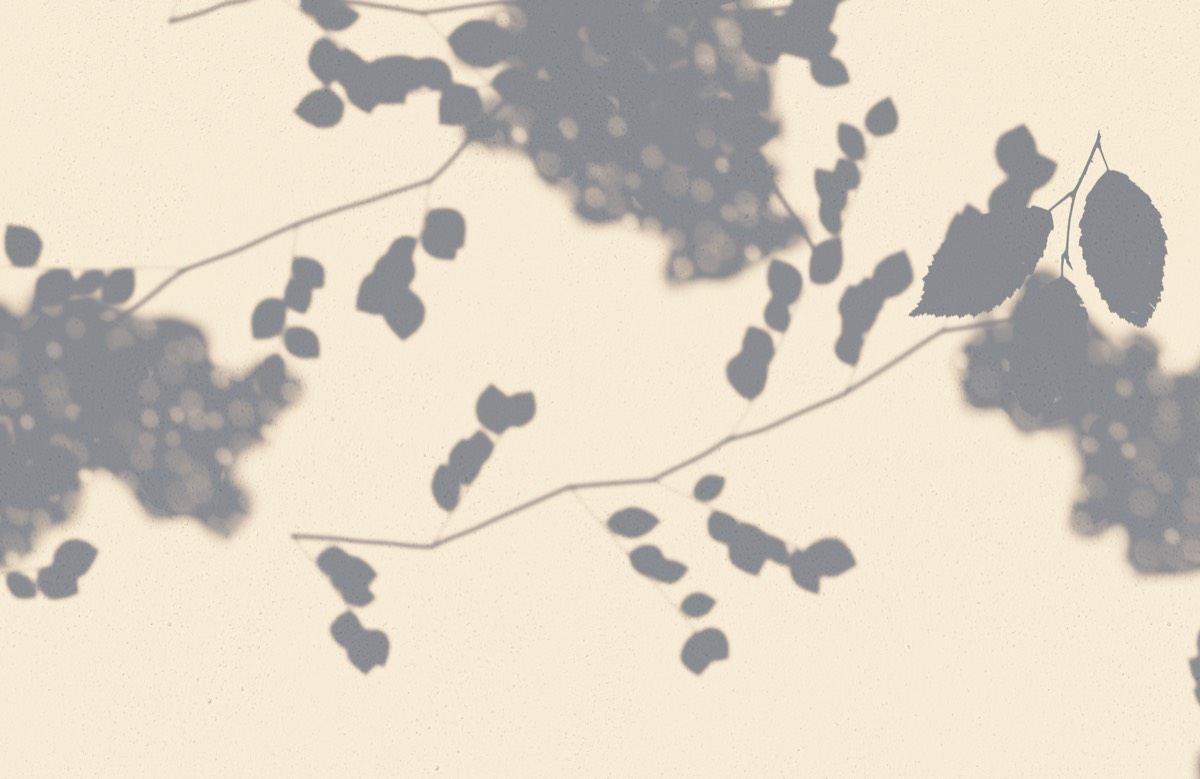
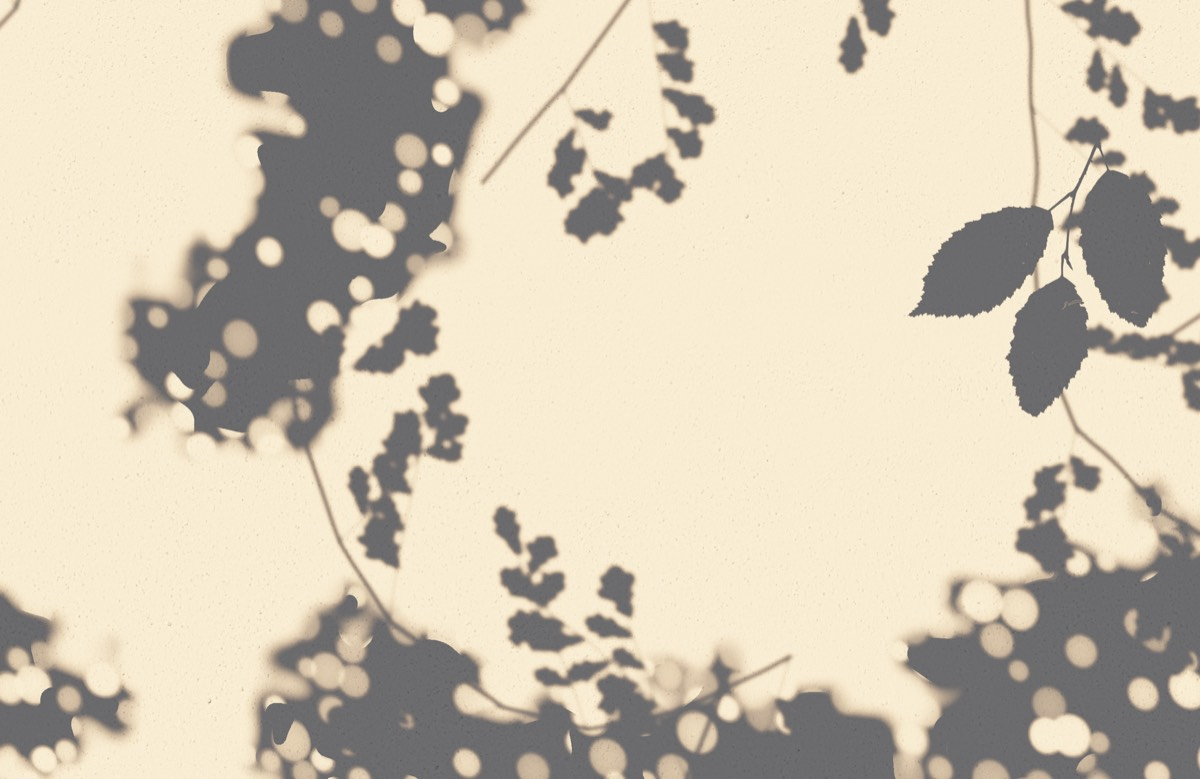
Dappled Light: calibrate shade, bounce light and dapples against measured reference photos

diff --git a/Sources/Atrium/DappledLight.swift b/Sources/Atrium/DappledLight.swift
@@ -32,7 +32,7 @@ final class DappledLight: SKScene {
     /// Metres of wall across the screen, and how far each layer of leaves is from the wall: the far crown, whose
     /// shadow is a soft mass with round dapples in it, sprays of leaves soft at the edges, and a twig close enough to
     /// cast a sharp shadow.
-    private static let wallWidth = 2.4, far = 4.0, mid = 1.2, near = 0.25
+    private static let wallWidth = 2.4, far = 5.0, mid = 1.2, near = 0.25
 
     private let wall = SKSpriteNode()
     private let proj = SKUniform(name: "u_proj", vectorFloat4: .zero), invL = SKUniform(name: "u_invL", float: 0)
@@ -131,9 +131,10 @@ final class DappledLight: SKScene {
         let air = Atmosphere.shared
         let altitude = asin(sun.z) * 180 / .pi
 
-        // Skylight on the wall: blue by day, fading through twilight to the glow of towns.
-        let skyDay = V(0.80, 0.88, 1.0) * 0.18 * sqrt(max(sun.z, 0) + 0.02)
-        let skyDusk = V(0.72, 0.79, 1.0) * 0.025 * exp(min(altitude, 0) / 3.2)
+        // Skylight on the wall: blue by day, fading through twilight to the glow of towns. Photos of leaf shadows on
+        // walls put sunlit wall at 7–8 times the shade by day, 4 at golden hour.
+        let skyDay = V(0.80, 0.88, 1.0) * 0.075 * sqrt(max(sun.z, 0) + 0.02)
+        let skyDusk = V(0.72, 0.79, 1.0) * 0.0106 * exp(min(altitude, 0) / 3.2)
         var sky = (altitude > 0 ? skyDay : skyDusk) + V(0.9, 0.85, 0.8) * 3e-7
         var overcastSky = V(0.93, 0.95, 1.0) * (0.3 * pow(max(sun.z + 0.05, 0), 0.8) + 0.004 * exp(min(altitude, 0) / 3.2)) + V(1, 0.8, 0.6) * 5e-7
 
@@ -184,6 +185,8 @@ final class DappledLight: SKScene {
         let lights = seen.z > 0.02 && toward.z > -0.01 // the source is in front of the wall and above the horizon
         let cosine = max(seen.z, 0)
         let fade = smoothstep(0.02, 0.12, cosine) // grazing light fades rather than stopping at an edge
+        // Sunlight bounced off the ground and everything around warms the shade, most at golden hour when the sky is dim.
+        if !isNight { sky += strength * 0.05 * pow(1 - max(sun.z, 0), 3) }
         lit = (lights ? strength * fade : .zero, sky, overcastSky, 1)
 
         // The sky offset (in source radii) that each metre of wall sees through a gap, per metre of path from it.
@@ -284,7 +287,7 @@ final class DappledLight: SKScene {
 
     /// The tree's shadow-casters, 3 m square and tiling, laid out afresh each launch from real maple, oak or beech
     /// leaves (ambientCG's leaf scans, CC0), one kind of tree at a time. Red holds sprays of leaves on their twigs,
-    /// green the far crown: denser clumps of smaller leaves, blurred into the soft masses that the Sun, 4 m on, makes
+    /// green the far crown: denser clumps of smaller leaves, blurred into the soft masses that the Sun, 5 m on, makes
     /// of them.
     private static let canopy: SKTexture = {
         let n = 1024, metres = 3.0
@@ -393,7 +396,7 @@ final class DappledLight: SKScene {
                 at = CGPoint(x: at.x + cos(heading) * step, y: at.y + sin(heading) * step)
             }
         }
-        // The Sun, 4 m past these leaves, blurs them by about 2 cm.
+        // The Sun, 5 m past these leaves, blurs them by about 2 cm.
         let crown = blurred(pixels(crownContext), radius: 7, passes: 3)
 
         var bytes = [UInt8](repeating: 255, count: n * n * 4)
@@ -413,7 +416,7 @@ final class DappledLight: SKScene {
 
     private static let shaderSource = """
     // One gap's image of the light: `q` is the offset in the sky, in the source's radii, from the image's centre, and
-    // `r` the gap's radius in the same units, which blurs the image by as much and sets how bright it is. The Moon
+    // `r` the gap's radius in the same units, which blurs the image by as much. The Moon
     // (src.xy, radius src.z) bites into it during an eclipse; a moon source shows its phase (src.w, the cosine of
     // the phase angle, with `term` pointing to its bright limb).
     float sunImage(vec2 q, float r, vec4 src, vec2 term, float px) {
@@ -427,7 +430,7 @@ final class DappledLight: SKScene {
             float v = dot(q, vec2(-term.y, term.x));
             lit *= smoothstep(-soft, soft, u + src.w * sqrt(max(1.0 - v * v, 0.0)));
         }
-        return lit * min(r * r, 1.0);
+        return lit;
     }
 
     // Gaps in the far crown, one to a 2 × 2 cell of sky offset (so every image is round here); the fluttering ones blink.
@@ -438,10 +441,13 @@ final class DappledLight: SKScene {
             for (int i = -1; i <= 1; i++) {
                 vec2 c = cell + vec2(float(i), float(j));
                 vec4 h = hash42(c);
-                float r = h.z < 0.5 - 0.3 * open ? 0.0 : (0.15 + 0.4 * h.z) * (0.5 + 0.5 * open);
-                r *= 1.0 - flutter * step(0.6, h.w) * (0.5 + 0.5 * sin(t * (15.0 + 20.0 * h.w) + h.w * 80.0));
-                float size = 0.65 + 0.8 * fract(h.z * 7.31 + h.w * 3.7);   // gaps 2.6 to 5.8 m out: the nearer, the smaller
-                if (r > 0.02) { sum += sunImage((g - (c + 0.2 + 0.6 * h.xy) * 2.0) / size, r / size, src, term, px / size); }
+                float r = h.z < 0.78 - 0.4 * open ? 0.0 : (0.1 + 0.3 * h.z) * (0.5 + 0.5 * open);
+                // A gap's image is as bright as the gap's area over the image's, so pinhole-sized gaps make dim images,
+                // but photos show the dapples at 0.7–1.6 times the median spot: the visible ones are the wider gaps.
+                float bright = fract(h.z * 13.7 + h.w * 5.3);
+                float gain = mix(0.2, 1.0, bright * bright) * (1.0 - flutter * step(0.6, h.w) * (0.5 + 0.5 * sin(t * (15.0 + 20.0 * h.w) + h.w * 80.0)));
+                float size = 0.65 + 0.8 * fract(h.z * 7.31 + h.w * 3.7);   // gaps 3.3 to 7.3 m out: the nearer, the smaller
+                if (r > 0.02) { sum += gain * sunImage((g - (c + 0.2 + 0.6 * h.xy) * 2.0) / size, r / size, src, term, px / size); }
             }
         }
         return sum;

diff --git a/docs/dappled-light.md b/docs/dappled-light.md
@@ -10,11 +10,11 @@ Sunlight through a tree onto a warm white plaster wall (komorebi), lit by the re
 - **The wall:** 2.4 m of wall across the screen whatever its size, facing one of eight compass points (Settings). Its frame is (right, up, out) as seen standing in front of it. Every second `light()` turns the Sun (or the Moon or a lamp) into that frame: `from`, a unit vector whose `z` is the cosine of the angle the light meets the wall.
 - **Pinhole physics:** every gap between leaves is a pinhole camera, so each bright spot is an image of the Sun: its diameter is 0.0093 × the gap's distance from the wall along the ray (the Sun spans 0.53°), and it's an ellipse on the wall, longer by 1/cos(incidence) along the way the light travels. The shader works in *sky offset*: `u_proj` turns metres on the wall into how far (in Sun radii) the direction a point sees through a gap is from the Sun's centre, per metre of path. In those coordinates every image is a round disc of radius 1 whatever the angle, so the stretch, the size and the eclipse all come for free, and the lookups stay cheap.
 - **Layers of the tree**, each shifted by the Sun as a shadow of something that far out from the wall would be (`shift`, depth × tan): so as the Sun crosses the sky the shadows crawl across the wall, the near twig least.
-  - **The far crown, 4 m out:** its shadow is a soft mass (the canopy texture's green, clumps of real leaves blurred by the 2 cm the Sun blurs them at that distance), and inside it the gaps make round dapples (`pinholes`): one possible gap to a 2 × 2 cell of sky offset, 3 × 3 cells searched, each gap 2.6–5.8 m out (so its image is 0.65–1.45 radii across; the farther, the bigger and dimmer), fewer and smaller in the densest crown. Each image is a limb-darkened disc (1 − 0.6(1 − μ)), blurred by the gap's own size, as bright as the gap's area over the image's (Minnaert: "for a hazy picture the size of the aperture must be added"). The first version was dapples alone, a field of polka dots; the reference photos showed they only appear inside the crown's shade, among leaf shadows.
+  - **The far crown, 5 m out:** its shadow is a soft mass (the canopy texture's green, clumps of real leaves blurred by the 2 cm the Sun blurs them at that distance), and inside it the gaps make round dapples (`pinholes`): a gap in 22–62% of the 2 × 2 cells of sky offset (more toward the crown's edge), 3 × 3 cells searched, each gap 3.3–7.3 m out (so its image is 0.65–1.45 radii across). Each image is a limb-darkened disc (1 − 0.6(1 − μ)), blurred by the gap's own size (Minnaert: "for a hazy picture the size of the aperture must be added"). Physically a gap's image is as bright as the gap's area over the image's, so pinholes make dim spots; photos show the visible dapples at 0.7–1.6 times the median spot, so each gets a brightness from 0.2 to 1 of full sun, independent of its size, and overlaps add. The first version was dapples alone, a field of polka dots; the reference photos showed they only appear inside the crown's shade, among leaf shadows.
   - **Sprays of leaves, 1.2 m out** (the canopy texture's red): twigs off a few wandering branches, real leaves set alternately along each twig and one at its tip. Their shadow is blurred over the source's image with seven taps (`u_blur` maps sky offset back to the wall, so the blur is the right ellipse), each tap dropped where the Moon covers the Sun, so an eclipse bites their soft edges too. The texture is pre-blurred by a texel so thin twigs don't ghost into double lines between the taps. Turning the tap pattern per pixel hid the ghosting too, but cost 2.2 ms of GPU by thrashing the texture cache.
   - **A twig near the wall, 0.25 m out:** ambientCG's forked twig with three serrated leaves, a sharp shadow hanging into the top right, swaying about its base. Its place is fixed when the scene is built, so it starts on screen and then drifts with the Sun.
   - The canopy texture (1024², 3 m square, tiling) is laid out afresh each launch from one kind of tree: maple, oak or beech.
-- **Light and colour:** sunlight is `Atmosphere.sunlight` squared (twice the path, since the low air is hazier than the model's clean air; single strength gave a pale yellow sunset where photos are amber), times a fade from 0.12 down to 0.02 of the cosine so grazing light fades out rather than stopping at an edge. Skylight is blue by day (0.8, 0.88, 1), paler blue through twilight, down to the glow of towns (3e−7 of the Sun). The plaster's grain is lit by its normal map, so a low Sun rakes across it. The shade gets 20% less skylight under the densest crown (very smooth noise, since the sky is a huge source).
+- **Light and colour:** sunlight is `Atmosphere.sunlight` squared (twice the path, since the low air is hazier than the model's clean air; single strength gave a pale yellow sunset where photos are amber), times a fade from 0.12 down to 0.02 of the cosine so grazing light fades out rather than stopping at an edge. Skylight is blue by day (0.8, 0.88, 1) at 0.075·√(sin h + 0.02), paler blue through twilight, down to the glow of towns (3e−7 of the Sun). Sunlight bounced off the ground adds 0.05·(1 − sin h)³ of it to the shade, which warms it at golden hour, when photos show warm shade, and leaves it blue by day. The plaster's grain is lit by its normal map, so a low Sun rakes across it. The shade gets 20% less skylight under the densest crown (very smooth noise, since the sky is a huge source).
 - **Exposure:** the eye adapts: the wall's brightness follows the light only as its 0.18th power, and dims a further 50% at night. It's worked out from the light before clouds, so a cloud passing still dims the wall, as it does to the eye. Tone-mapped like Weather: `sqrt(1 − exp(−x))`.
 - **Night:** below 1.5° under the horizon the source becomes the Moon, 2.5 millionths of sunlight at full, falling off as the lit fraction to the 2.5; each gap's image is then the Moon's own phase (`u_src.w` is the cosine of the phase angle, `u_term` points to the bright limb), and the colours shift blue (the Purkinje shift). With Streetlight chosen, a warm lamp (1, 0.62, 0.32) up to the left instead, 0.8° across (a 20 cm globe 12 m away), on from 1.5° to 4° below the horizon, with only a third of the blue shift.
 - **Eclipses:** by day `light()` places the Moon over the Sun as seen from here (topocentric, `Sky.moon(_:latitude:longitude:)`, good to 10″; the low-precision series it replaced was 10–30 minutes out and missed totality). While the discs overlap, `u_src` holds the Moon's offset and radius in Sun radii, every dapple becomes the same crescent (flipped through its gap), the soft leaves' taps drop the covered part, and the light dims by the area covered. At annularity every spot becomes a ring. The Moon at night, or the lamp, shows no eclipse. Preview an eclipse fakes a 70% one.
@@ -35,8 +35,8 @@ Sunlight through a tree onto a warm white plaster wall (komorebi), lit by the re
 Any change re-runs `light()`; nothing rebuilds.
 
 ## Tuning constants
-- Wall 2.4 m across; crown 4 m out, sprays 1.2 m, twig 0.25 m; path length clamped at cos 0.25.
-- Pinholes: a gap in a cell when `h.z > 0.5 − 0.3·open`, radius (0.15 + 0.4·h.z)·(0.5 + 0.5·open) of the image.
+- Wall 2.4 m across; crown 5 m out, sprays 1.2 m, twig 0.25 m; path length clamped at cos 0.25.
+- Pinholes: a gap in a cell when `h.z > 0.78 − 0.4·open`, radius (0.1 + 0.3·h.z)·(0.5 + 0.5·open) of the image, brightness 0.2–1.
 - Exposure `1.8·(L/0.33)^−0.82/0.33`, × (1 − 0.5·night).
 
 ## Performance
@@ -51,7 +51,20 @@ Any change re-runs `light()`; nothing rebuilds.
 - The plaster is three greyscale HEICs packed into one texture at load: a colour HEIC's 4:2:0 chroma wrecks packed channels (correlation 0.33 back), and the PNG is 8 MB.
 
 ## Checked against real photos
-A research agent gathered ~100 photos of leaf shadows on walls (scratchpad `dappled/sheets`). What they showed, and what changed:
+A research agent gathered 44 reference photos of leaf shadows on walls (scratchpad `dappled/reference`, with `measurements.json`), and measured them in linear light: lit and shade colour, their ratio, lit fraction, dapple size, ellipticity, edge softness and spot-to-spot brightness. The same `measure()` runs on renders, so they compared number for number, 2026-09-26 (a clear 4:30 pm on a south-west wall at 40°N):
+
+| | photos (median) | render |
+|---|---|---|
+| lit / shade, linear light | 7.7 midday, 4.1 golden | 5.4 at 4:30 pm; 3.8 at 1 pm, when the light is oblique |
+| shade's blue, (B/R shade) / (B/R lit) | 1.42 midday, 1.07 golden | 1.5 |
+| dapple size / frame width (area-weighted) | 0.035 | 0.030 |
+| edge 10–90% / spot diameter | 0.17 | 0.14 |
+| spot brightness, p10–p90 of median | 0.72–1.57 | 0.73–1.38 |
+| lit fraction | 0.35 in dapple photos, 0.66 with near leaves | 0.55 |
+
+The shade is kept a little lighter than the photos (whose own highlights clip, so their ratios understate), since calm here means soft. Before calibration the ratio was 3, every dapple equally bright, and three times too many of them.
+
+What the photos showed besides:
 - The wall is mostly lit, crossed by recognisable leaf and branch shadows; round dapples appear inside the denser shade, not as a field of their own. The first render was all dapples.
 - Shade on a white wall is blue-grey; sunlit plaster is warm; at golden hour the light is deep amber and the shadows lavender.
 - Near leaves are crisp, far ones melt into soft masses.
